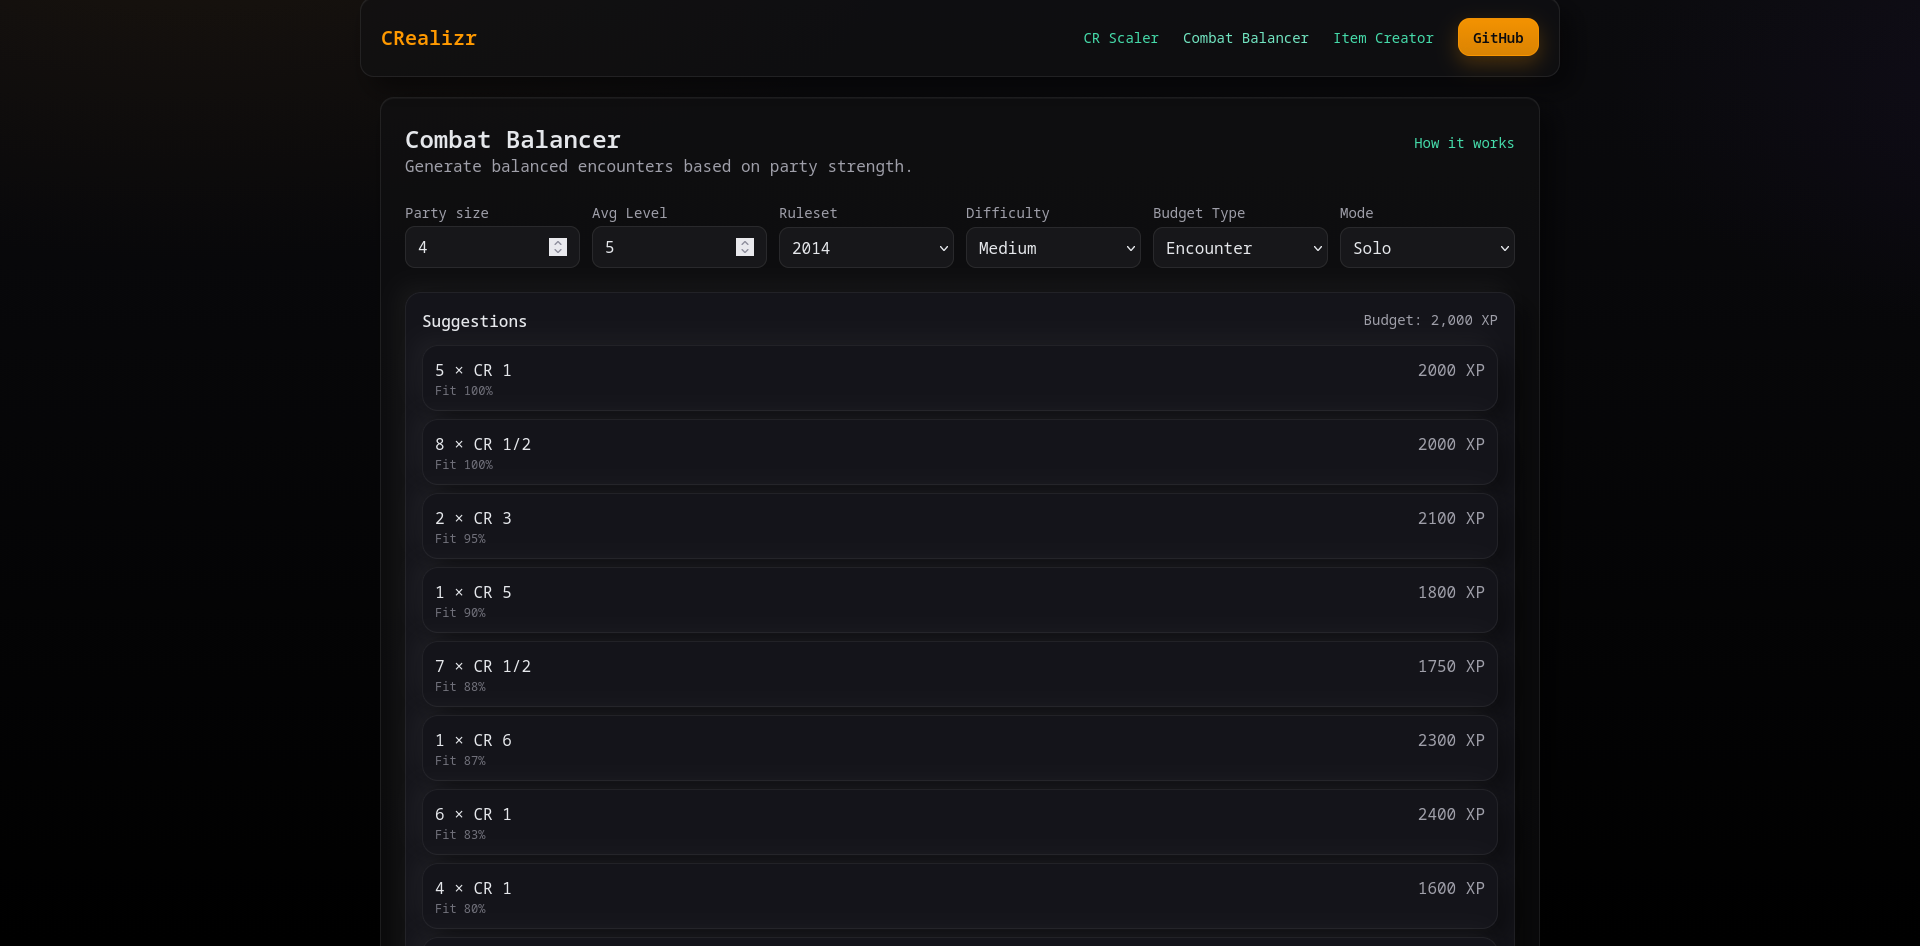
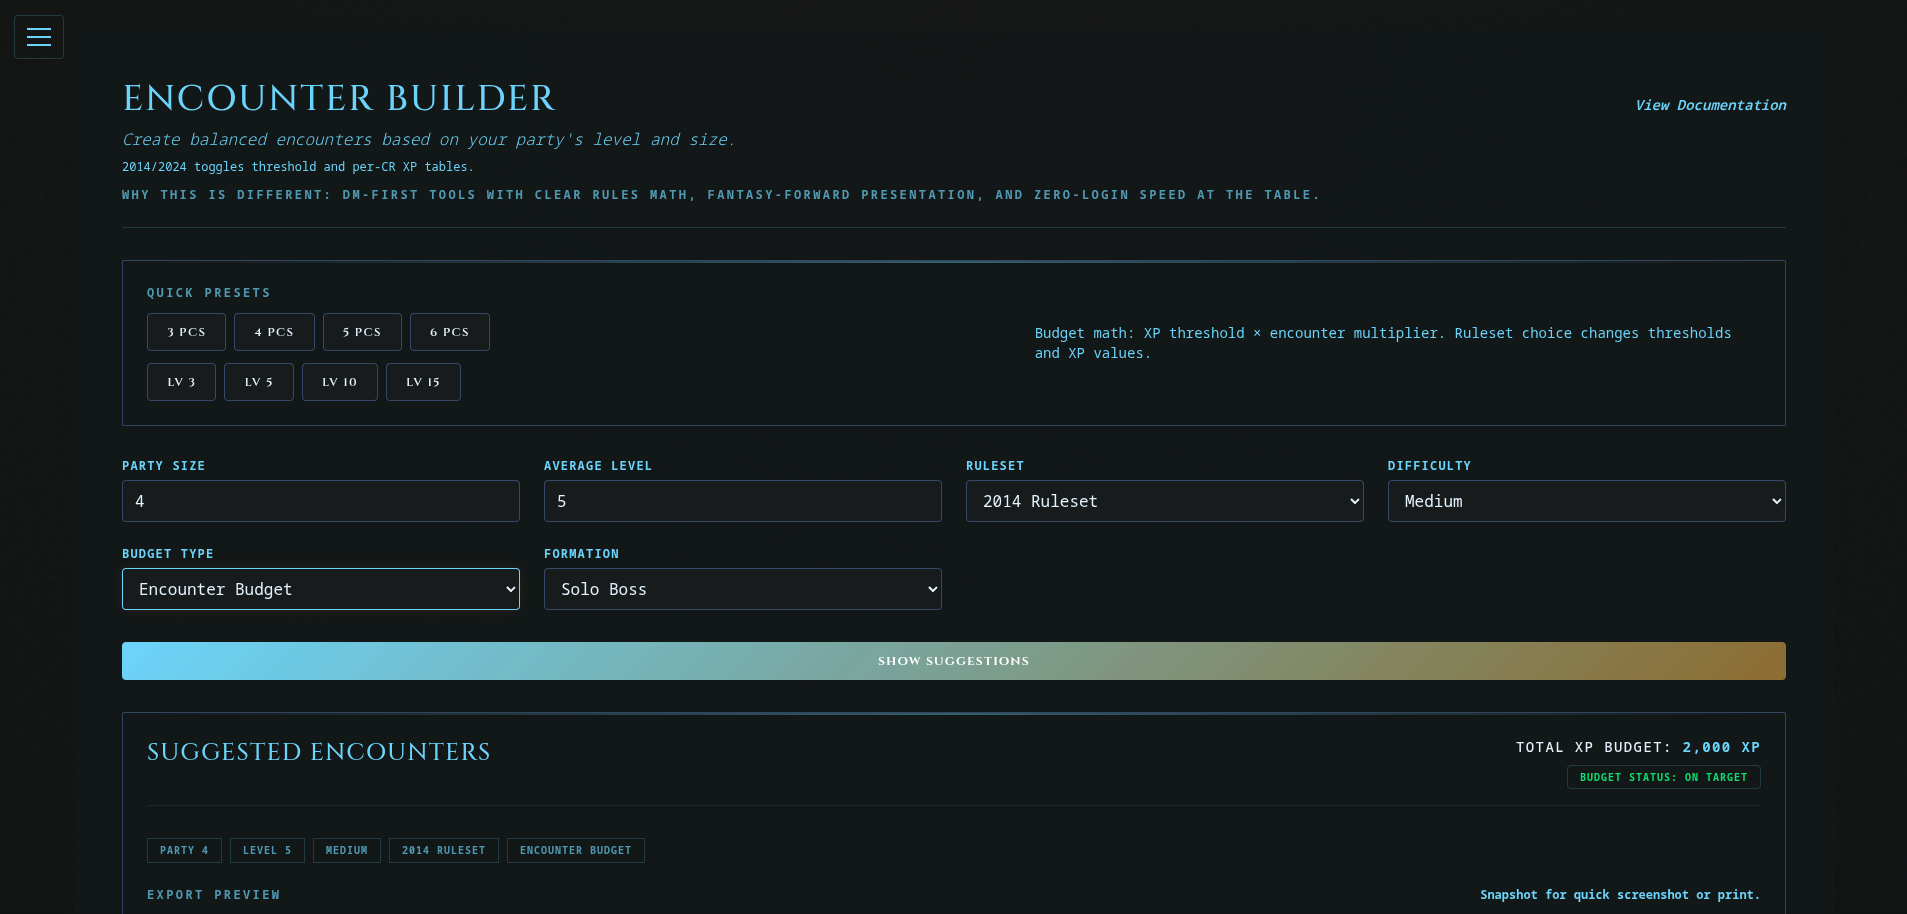
fix(production): update project link

diff --git a/src/constants/PROJECTS.ts b/src/constants/PROJECTS.ts
@@ -4,7 +4,7 @@ export const PROJECTS: Project[] = [
     {
         title: "CRealizr",
         description: "Rules-aware toolkit for D&D 5e that helps DMs design fair, tense encounters without manual CR math.",
-        href: "https://crealizr.netlify.app",
+        href: "https://crealizr.net",
         image: "/project_thumbs/project_crealizr.png",
         stack: ["Next.js", "TypeScript", "Tailwind CSS"],
     },
